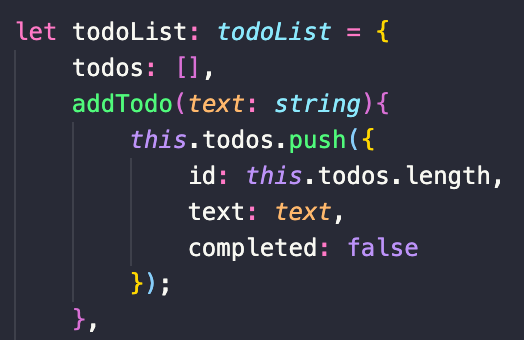
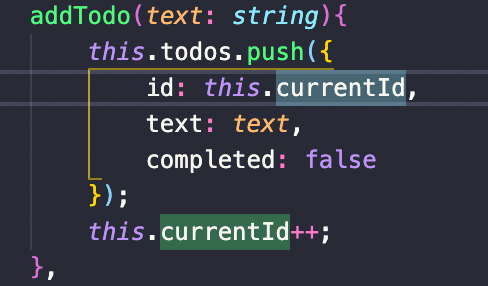
some updates to the live demo and tutorial

diff --git a/src/public/js/todo.ts b/src/public/js/todo.ts
@@ -6,6 +6,7 @@ interface todoItem{
 
 interface todoList{
     todos: todoItem[];
+    currentId: number;
     addTodo(text: string): void;
     toggleTodo(id: number): EventListener;
     clearCompleted: () => EventListener;
@@ -14,16 +15,21 @@ interface todoList{
 
 let todoList: todoList = {
     todos: [],
+    currentId: 0,
     addTodo(text: string){
         this.todos.push({
-            id: this.todos.length,
+            id: this.currentId,
             text: text,
             completed: false
         });
+        this.currentId++;
     },
     toggleTodo(id: number){
         let e: EventListener = (e: Event) => {
-            this.todos[id].completed = !this.todos[id].completed;
+            let todoItem: todoItem | undefined = this.todos.find(todo => todo.id === id);
+            if(todoItem){
+                todoItem.completed = !todoItem.completed;
+            }
             this.renderTodos();
         }
         return e;
